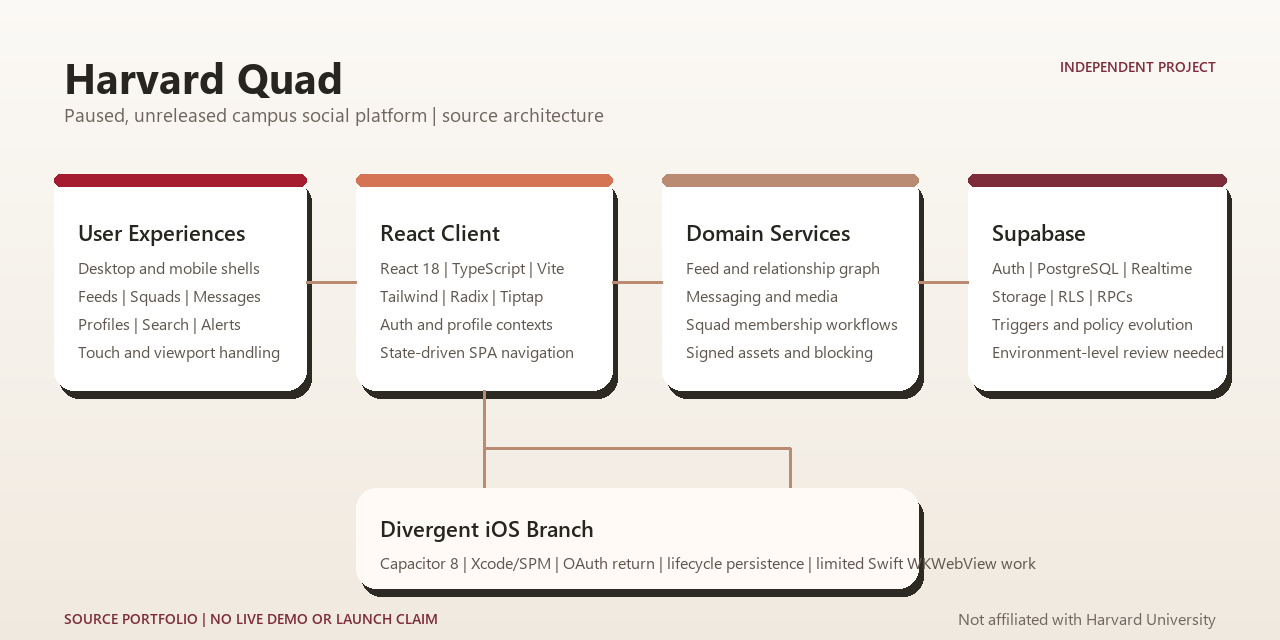
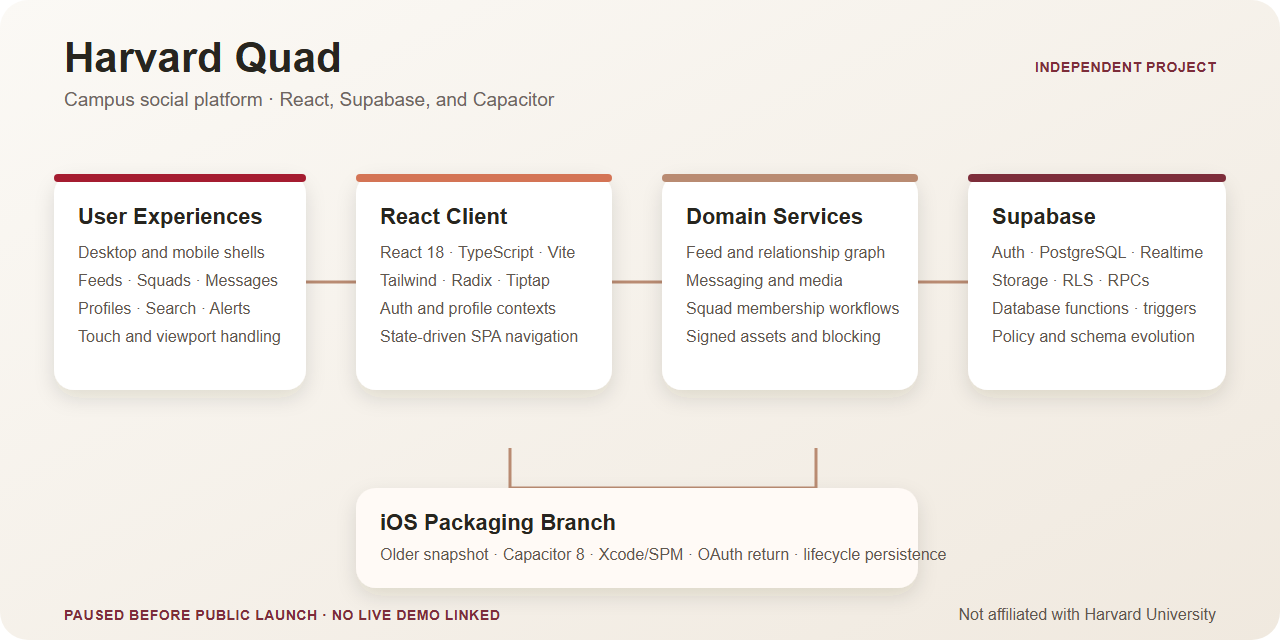
Refine public project presentation

diff --git a/src/components/pages/privacy-page.tsx b/src/components/pages/privacy-page.tsx
@@ -3,16 +3,16 @@ import { ArrowLeft } from "lucide-react"
 import { navigateWithoutReload } from "@/lib/navigation"
 import { LegalContent } from "@/components/LegalContent"
 
-const PRIVACY_TEXT = `HARVARD QUAD — SOURCE PORTFOLIO PRIVACY NOTICE
+const PRIVACY_TEXT = `HARVARD QUAD — PUBLIC REPOSITORY PRIVACY NOTICE
 Last Updated: July 22, 2026
 
 Repository Scope
 
-Harvard Quad is a paused, unreleased project. Its public repository is an engineering portfolio artifact, not a supported public service. The repository contains source code, configuration templates, and schema history; it does not include a database dump, private user-level content, production credentials, or recruiter demo accounts.
+Harvard Quad was paused before public launch. The repository contains implemented source, configuration templates, and schema history; it is not a supported public service and does not include a database dump, private user-level content, production credentials, or test-account credentials.
 
 No Approved Hosted Use
 
-No hosted deployment is currently approved as a public or recruiter demo. Do not create an account, upload files, or submit personal, academic, confidential, or copyrighted information to an unapproved deployment.
+No hosted deployment is currently presented or approved as a public demo. Do not create an account, upload files, or submit personal, academic, confidential, or copyrighted information to an unapproved deployment.
 
 Local Development
 
@@ -20,7 +20,7 @@ A local copy requires a Supabase project controlled by the developer. Data enter
 
 Future Service Privacy Terms
 
-If the project is resumed and a supported service is launched, a separate reviewed privacy policy must describe the deployed data flows, providers, retention, user controls, and contact process. This source-portfolio notice does not authorize data collection for a future service.
+If the project is resumed and a supported service is launched, a separate reviewed privacy policy must describe the deployed data flows, providers, retention, user controls, and contact process. This repository notice does not authorize data collection for a future service.
 
 Repository Questions
 
@@ -46,7 +46,7 @@ export function PrivacyPage() {
             <ArrowLeft className="w-5 h-5" aria-hidden />
             <span className="text-sm font-medium">Back</span>
           </button>
-          <h1 className="text-lg font-semibold">Source Privacy Notice</h1>
+          <h1 className="text-lg font-semibold">Repository Privacy Notice</h1>
         </div>
       </header>
       <main className="flex-1 min-h-0 overflow-y-auto overscroll-contain px-4 py-8" style={{ WebkitOverflowScrolling: "touch" }}>

diff --git a/src/components/pages/terms-page.tsx b/src/components/pages/terms-page.tsx
@@ -3,18 +3,18 @@ import { ArrowLeft } from "lucide-react"
 import { navigateWithoutReload } from "@/lib/navigation"
 import { LegalContent } from "@/components/LegalContent"
 
-const TERMS_TEXT = `HARVARD QUAD — UNRELEASED PROJECT NOTICE
+const TERMS_TEXT = `HARVARD QUAD — PROJECT STATUS NOTICE
 Last Updated: July 22, 2026
 
 Project Status
 
-Harvard Quad is an independent, paused software project. It is not owned, sponsored, commissioned, or endorsed by Harvard University or any Harvard school. The public source repository is provided for portfolio review and does not represent a supported public service or production launch.
+Harvard Quad is an independent software project that reached substantial implementation and was paused before public launch. It is not owned, sponsored, commissioned, or endorsed by Harvard University or any Harvard school. The public repository documents the implemented product and architecture; it does not represent a supported public service, production launch, or current deployment.
 
 No Public Demo
 
-No hosted deployment is currently approved as a recruiter or public demo. Do not create an account, upload content, or submit personal, academic, confidential, or copyrighted information to an unapproved deployment.
+No hosted deployment is currently presented or approved as a public demo. Do not create an account, upload content, or submit personal, academic, confidential, or copyrighted information to an unapproved deployment.
 
-Source Evaluation
+Repository Evaluation
 
 The repository may be inspected only under its proprietary license. No right to use, copy, deploy, modify, or redistribute the source is granted without permission from the project owners.
 

diff --git a/src/components/auth/MobileLoginPage.tsx b/src/components/auth/MobileLoginPage.tsx
@@ -178,7 +178,7 @@ export function AuthScreensStandalone({ onBack }: AuthScreenProps) {
             </a>
             {' '}and{' '}
             <a href="/privacy" className="text-[#d47455] hover:underline">
-              Source Privacy Notice
+              Repository Privacy Notice
             </a>
           </p>
         </div>
@@ -776,7 +776,7 @@ export function AuthScreensStandalone({ onBack }: AuthScreenProps) {
               I agree to the{' '}
               <a href="/terms" className="text-[#d47455] hover:underline inline relative z-10" onClick={(e) => e.stopPropagation()}>Project Status</a>
               {' '}and{' '}
-              <a href="/privacy" className="text-[#d47455] hover:underline inline relative z-10" onClick={(e) => e.stopPropagation()}>Source Privacy Notice</a>
+              <a href="/privacy" className="text-[#d47455] hover:underline inline relative z-10" onClick={(e) => e.stopPropagation()}>Repository Privacy Notice</a>
             </label>
           </div>
 

diff --git a/src/components/landing/Community.tsx b/src/components/landing/Community.tsx
@@ -42,10 +42,10 @@ export const Community = memo<CommunityProps>(({ onSignIn }) => (
 
       <div className="mt-24 text-center pt-16 px-4 md:px-16 pb-6 border-t border-neutral-200">
         <h3 className="font-sans text-4xl sm:text-6xl font-normal text-[#27251f] mb-4 leading-[1.1] tracking-[-0.01em]">
-          Explore the project source.
+          Explore the implementation.
         </h3>
         <p className="text-[#787771] leading-7 font-normal tracking-[-0.01em] mb-10 max-w-xl mx-auto">
-          The project is paused and unreleased; this interface remains a source preview rather than a public product launch.
+          The project was paused before public launch. This interface demonstrates the implementation but is not a currently supported public service.
         </p>
         <button
           onClick={onSignIn}

diff --git a/src/components/pages/profile-page.tsx b/src/components/pages/profile-page.tsx
@@ -2194,8 +2194,8 @@ function ProfileSettings({
     {
       title: "Support",
       items: [
-        { icon: FileText, label: "Source Privacy Notice", desc: "Review the unreleased-project privacy notice", href: "/privacy" },
-        { icon: FileText, label: "Project Status", desc: "Review the unreleased-project status notice", href: "/terms" },
+        { icon: FileText, label: "Repository Privacy Notice", desc: "Review the public-repository privacy notice", href: "/privacy" },
+        { icon: FileText, label: "Project Status", desc: "Review the project-status notice", href: "/terms" },
         { icon: FileText, label: "User Guide", desc: "Coming soon", href: "/user-guide" },
         { icon: LogOut, label: "Sign Out", desc: "Log out of your account", isSignOut: true as const },
       ],

diff --git a/src/components/landing/Hero.tsx b/src/components/landing/Hero.tsx
@@ -68,7 +68,7 @@ export const Hero = memo<HeroProps>(({ onSignIn }) => {
           </div>
 
           <p className="text-sm text-[#27251f] font-medium">
-            Independent project source preview — not a public launch.
+            Independent project paused before public launch.
           </p>
         </div>
       </div>

diff --git a/README.md b/README.md
@@ -1,12 +1,12 @@
 # Harvard Quad
 
-Harvard Quad is an independent, paused campus social-platform project built with React, TypeScript, Supabase, and PostgreSQL. It is not owned, sponsored, commissioned, or endorsed by Harvard University or any Harvard school.
+Harvard Quad is an independent campus social platform that brings feeds, realtime messaging, student communities, profiles, and discovery into one React/TypeScript application backed by Supabase and PostgreSQL. It is not owned, sponsored, commissioned, or endorsed by Harvard University or any Harvard school.
 
-**Project status:** substantial implementation, unreleased to the public. This repository is published as a source portfolio and engineering record, not as a production-ready service. No hosted demo is linked because the accessible deployment is authentication-gated, its exact deployed revision is unverified, and it cannot currently be updated through the available Vercel access.
+**Current status:** The project reached substantial implementation and was paused before public launch. This repository shows the implemented product and architecture; no live demo is linked.
 
 ## Role and Collaboration
 
-Justin Li served as **Primary Engineer**, implementing the large majority of the application across feeds, messaging, Squads, profiles, mobile workflows, Supabase integration, and the later architecture expansion. A collaborator made limited early contributions to profile, login, messaging, and mobile-interface work. The project should not be represented as a solo effort.
+Justin Li served as **Primary Engineer**, leading most implementation across feeds, messaging, Squads, profiles, mobile workflows, Supabase integration, and the later architecture expansion. A collaborator contributed to early profile, authentication, messaging, and mobile-interface work.
 
 ## Product Scope
 
@@ -19,13 +19,13 @@ The current `main` source includes:
 - Profiles, friends, blocking, notifications, Explore, and global search
 - Separate desktop and mobile shells with touch drawers, safe-area handling, and mobile keyboard/viewport work
 
-The calendar surface is an in-memory prototype rather than a persistent backend feature. The fuller marketing landing page remains disabled in the current runtime.
+The calendar surface remains an in-memory prototype rather than a persistent backend feature.
 
 ## Architecture
 
-![Harvard Quad source architecture](docs/harvard-quad-architecture.svg)
+![Harvard Quad architecture overview](docs/harvard-quad-architecture.svg)
 
-The diagram is a source-derived recruiter overview. It describes implementation mechanisms visible in this repository and does not certify security, privacy, scalability, hosted-schema parity, or deployment success.
+The diagram summarizes the architecture visible in this repository. It does not establish hosted-schema parity, deployment status, or production security or scalability.
 
 - **Client:** React 18, TypeScript, Vite, Tailwind CSS, Radix UI, Tiptap, and TanStack Virtual
 - **Application services:** feed, messaging, Squads, profiles, friends, notifications, blocking, and signed-asset helpers
@@ -33,20 +33,19 @@ The diagram is a source-derived recruiter overview. It describes implementation 
 - **Mobile web:** dedicated navigation and layouts, Visual Viewport handling, safe areas, touch drawers, and local UI-library patches
 - **Deployment configuration:** Vercel SPA configuration; configuration is not proof of a current or successful deployment
 
-## Web and iOS Source Boundaries
+## Web and iOS Branches
 
-`main` is the strongest and latest web/mobile-web product state. The public `IOS-branch` is a divergent, older product snapshot that packages its React/Vite application with Capacitor 8 and an Xcode/SPM wrapper. That branch includes a custom URL scheme, Google OAuth return handling, lifecycle-state persistence, and limited Swift WKWebView customization.
+`main` contains the latest and most complete web/mobile-web implementation. The public `IOS-branch` is an older, divergent product snapshot that packages its React/Vite application with Capacitor 8 and an Xcode/SPM wrapper. That branch includes a custom URL scheme, Google OAuth return handling, lifecycle-state persistence, and limited Swift WKWebView customization.
 
-The two branch tips were not combined into one completed release. The repository does not establish a successful App Store release or independently verified TestFlight distribution, and this project should not be described as a native Swift application.
+The branches were not combined into one completed release. The iOS work supports an accurate description of a React/TypeScript application packaged for iOS with Capacitor—not a native Swift application. No App Store release or independently verified TestFlight distribution is claimed.
 
 ## Source, Data, and Deployment Boundaries
 
-- The project was paused before a verified public launch; no adoption, active-user, production-scale, or institutional-use claim is made.
-- The GitHub homepage is intentionally blank and the hosted authentication gateway is not promoted as a recruiter demo.
-- The exact deployed commit is unknown, and repository changes should not be treated as live-site changes.
+- The project was paused before public launch; no adoption, active-user, production-scale, or institutional-use claim is made.
+- No live site is linked. The accessible deployment is authentication-gated, its exact revision has not been verified, and repository changes should not be treated as live-site changes.
 - The SQL directory records schema and authorization evolution, but the hosted migration ledger was not sufficient to prove a canonical replay order.
-- Direct Supabase access makes RLS, RPC grants, and Storage policies critical. Earlier review identified profile, function-grant, and message-media boundaries that require dedicated environment-level remediation and testing before any production or open-demo use.
-- Current source expects a Harvard-email validation function that was not present in the reviewed hosted Edge Function state.
+- The included authorization and Storage policies require a fresh environment-level review and testing before any hosted demo or production use.
+- Current sign-up source expects a Harvard-email validation function that was absent from the reviewed hosted Edge Function state.
 - No automated unit, integration, end-to-end, or iOS test suite is configured. The repository workflow validates dependency installation and the production source build only.
 - Landing-page phone mockups use fictional illustrative names and content; they are not user records, testimonials, or adoption evidence.
 - No private user-level content, database dump, or production credential is included in the public repository.
@@ -79,4 +78,4 @@ Authentication and data workflows require a compatible Supabase backend. Do not 
 
 ## License and Contributions
 
-This source is publicly visible for portfolio and evaluation purposes under the proprietary [LICENSE](LICENSE). External contributions are not currently accepted. Any future licensing or contribution-policy change requires agreement among the project owners.
+The repository is publicly viewable for technical evaluation under the proprietary [LICENSE](LICENSE). External contributions are not currently accepted. Any future licensing or contribution-policy change requires agreement among the project owners.
